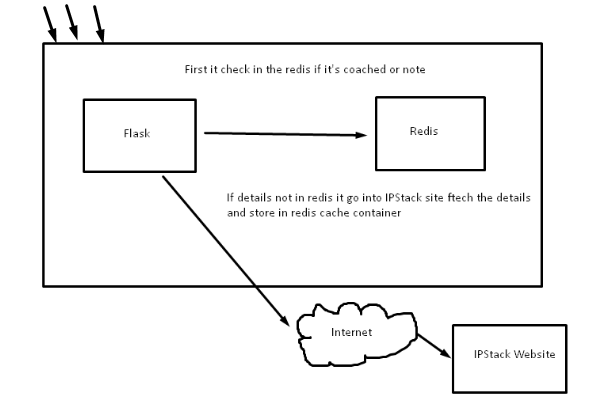
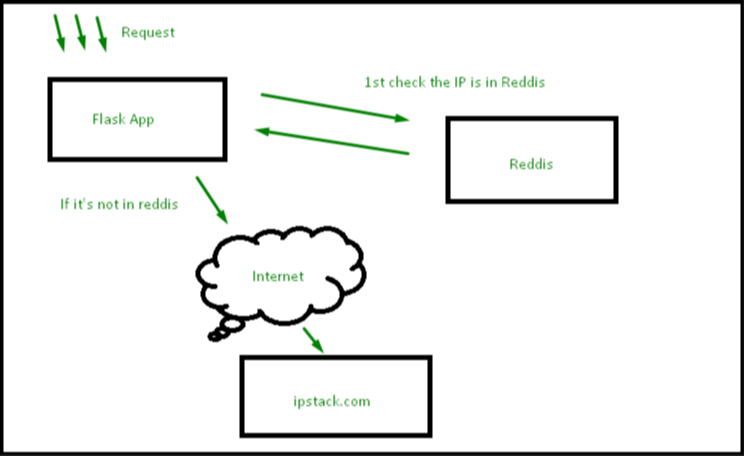
docker commit

Changed region(s): [[0.0, 0.0, 1.0, 1.0], [0.6832, 0.3023, 0.7426, 0.3929], [0.4752, 0.2418, 0.5644, 0.272]]

diff --git a/README.md b/README.md
@@ -1,5 +1,11 @@
 ## Creating Multi Container App using Flask Container and Redis
 
+A DevOps Project to display Location of IP address.
+
+![alt HelloWorld](https://github.com/adarshgeorge/docker-multi_container_app/blob/master/png/Search.png)
+
+
+
 ### Pre-Requisite
 An Server/EC2 with docker installed. 
 
@@ -47,3 +53,21 @@ docker run \
 adarshgeorge999/ipstackapp:1
 ```
 
+**Flowchart**
+
+![alt Flowchart](https://github.com/adarshgeorge/docker-multi_container_app/blob/master/png/flowchart.png) 
+
+Now browse the hostname or IP addresss
+
+![alt Search](https://github.com/adarshgeorge/docker-multi_container_app/blob/master/png/Searching.png) 
+
+Output
+
+![alt Out1](https://github.com/adarshgeorge/docker-multi_container_app/blob/master/png/output1.png) 
+
+Now again search the same IP address to verify the IP address is cached in reddis container. 
+
+![alt Out2](https://github.com/adarshgeorge/docker-multi_container_app/blob/master/png/result.png) 
+
+
+## That's it!!
